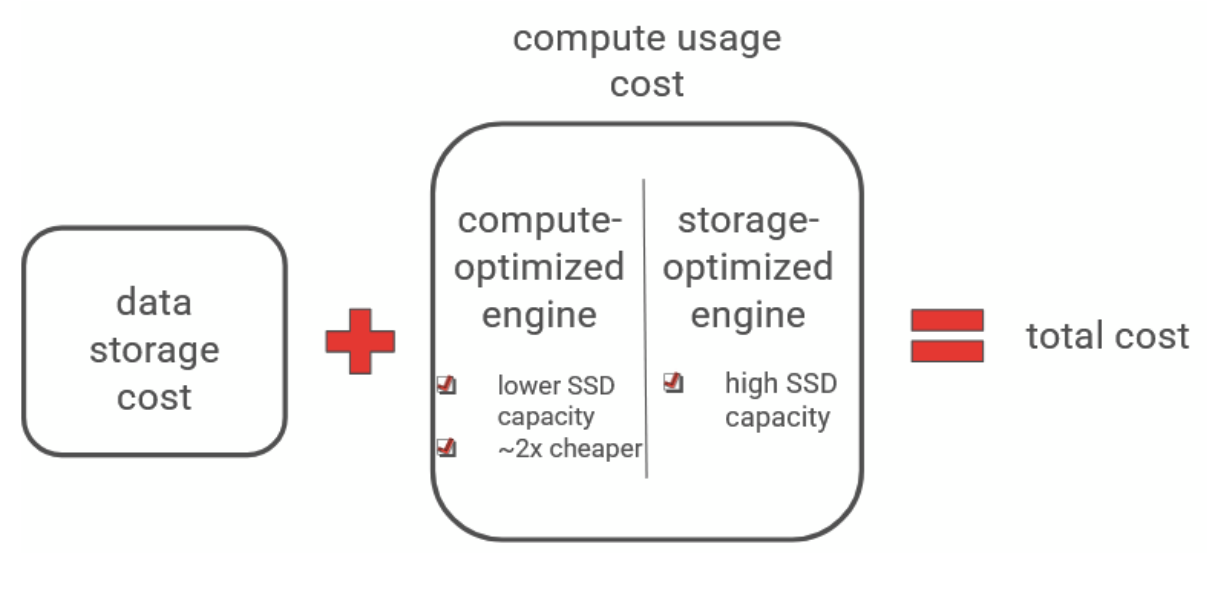
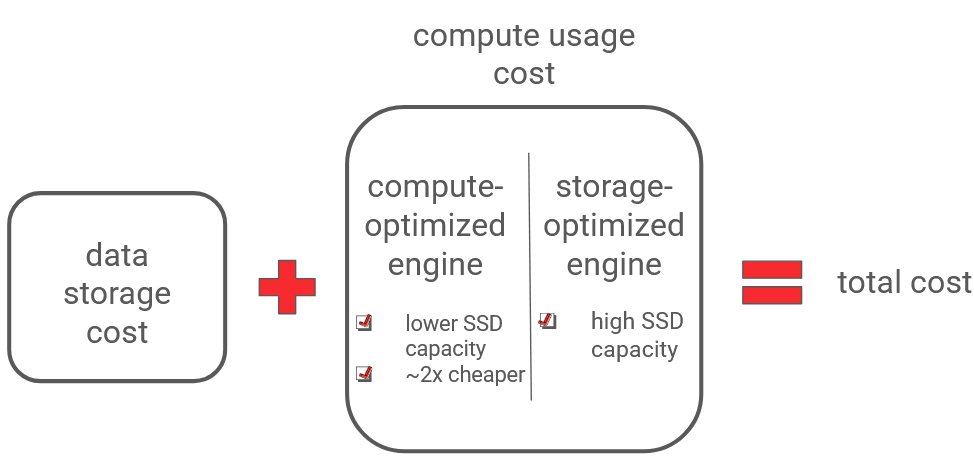
Nandi revisions

diff --git a/docs/Overview/billing.md b/docs/Overview/billing.md
@@ -26,9 +26,9 @@ The following sections outline the available deployment models, their editions, 
  Firebolt manages compute infrastructure, software maintenance, and upgrades across all fully-managed editions. Firebolt handles multi-dimensional elasticity, high performance, scaling, maintenance, and performance optimizations.
 
 * [Fully-managed editions](#fully-managed-editions) &ndash; Firebolt offers the **Standard**, **Enterprise** and **Dedicated** editions.
-* [Fully-managed pricing model](#fully-managed-pricing-models) &ndash; Your total price consists of a storage and a compute cost.
-    * [Data storage pricing](#fully-managed-data-storage-pricing) &ndash; The storage portion of your total cost.
-    * [Compute usage pricing](#fully-managed-compute-usage-pricing) &ndash; The compute portion of your total cost.
+* [Fully-managed pricing model](#fully-managed-pricing-model) &ndash; Your total price consists of a storage and a compute cost.
+    * [Data storage pricing](#data-storage-pricing) &ndash; The storage portion of your total cost.
+    * [Compute usage pricing](#compute-usage-pricing) &ndash; The compute portion of your total cost.
 * [Fully-managed pricing plans](#fully-managed-pricing-plans) &ndash; How to pay for resource usage.
     * [Billing setup and monitoring](#billing-setup-and-monitoring) &ndash; How to use the Billing dashboard to view resource consumption and set up billing and a plan.
     * [Set up billing for fully-managed plans](#set-up-billing-for-fully-managed-plans) &ndash; How to set up pay-as-you-go billing through AWS Marketplace.
@@ -71,12 +71,10 @@ Data storage costs are based on the amount of compressed data stored, including 
 #### Compute usage pricing
 Compute costs are measured in Firebolt Units (FBUs) and vary based on [engine]({% link Overview/engine-fundamentals.md %}) node type, number of nodes or cluster size, the number of clusters and usage duration. Costs are only billed for the time Firebolt engines are running. Firebolt offers two compute family options:
 
-The price of an FBU varies by Firebolt edition and region.
-
 * **Storage-optimized** (default): High SSD capacity for caching and production workloads.
 * **Compute-optimized**: About 2x cheaper; ideal for development and test environments or workloads with smaller active datasets.
 
-The following table outlines the available node types, their compute family, and the corresponding Firebolt Unit (FBU) sizing:
+The following table outlines the available node types, their compute family, and the corresponding FBU sizing:
 
 | Node type        | Compute family    | Sizing in FBU    |
 |------------------|-------------------|------------------|
@@ -89,6 +87,8 @@ The following table outlines the available node types, their compute family, and
 | Large (L)        | Compute-optimized | 16               |
 | Extra Large (XL) | Compute-optimized | 32               |
 
+Firebolt's compute usage pricing is based on **FBUs**, which vary by node type and region. The following table provides hourly pricing for **storage-optimized** node types across **Standard** and **Enterprise** plans, distinguishing between **US and Non-US regions**. Compute costs are only incurred while Firebolt engines are running, with **per-second billing**.
+
 **Storage-optimized pricing for compute usage**
 
 | Node Type         | Sizing in FBU | Standard: US Region Pricing ($0.23/FBU/hr) | Enterprise: US Region Pricing ($0.35/FBU/hr) | Standard: Non-US Region Pricing ($0.28/FBU/hr) | Enterprise: Non-US Region Pricing ($0.42/FBU/hr) |
@@ -97,6 +97,8 @@ The following table outlines the available node types, their compute family, and
 | **Medium (M)**   | 16           | $3.68                            | $5.60                            | $4.48                            | $6.72                            |
 | **Large (L)**    | 32           | $7.36                            | $11.20                           | $8.96                            | $13.44                           |
 | **Extra Large (XL)** | 64       | $14.72                           | $22.40                           | $17.92                           | $26.88                           |
+
+The following table provides hourly pricing for **compute-optimized** node types across **Standard** and **Enterprise** plans, distinguishing between **US and Non-US regions**. Compute costs are only incurred while Firebolt engines are running, with **per-second billing**.
 
 **Compute-optimized pricing for compute usage**
 
@@ -175,10 +177,11 @@ Response Time Commitments (TFR = Time to First Response)
 | Medium (Sev3) | Minor impact or feature issue               | Response within 24 business hours | Response within 6 business hours |
 | Low (Sev4)    | General inquiries or documentation questions | Response within 48 business hours | Response within 24 business hours |
 
-**Premium support features**            
-**Enterprise**, **Private Cloud**, and **Dedicated** edition customers receive additional support benefits beyond response time commitments:
-* **Proactive monitoring**: Alerts for issues and potential optimizations available to **Enterprise** edition customers
-* **Enhanced support channels**: All customers can access support via email and the in-app form, which can be accessed through the [help menu]({% link Reference/help-menu.md %}). Customers also have access to Slack support.
-* **Dedicated support engineer**: Customers are assigned a designated support engineer who has a deep understanding of their use and care for personalized support. **Standard** customers receive assistance from the general support pool. 
+**Premium support features**
+
+**Enterprise**, **Private Cloud**, and **Dedicated** edition customers receive the following additional support benefits beyond response time commitments:
+* **Proactive monitoring**: Alerts for issues and potential optimizations available to **Enterprise** edition customers.
+* **Enhanced support channels**: Support through Slack, email and the [help menu]({% link Reference/help-menu.md %}) in the **Firebolt Workspace**.
+* **Dedicated support engineer**: Customers are assigned a designated support engineer with deep knowledge of their environment, providing personalized support. This premium support level differs from **Standard** customers, who receive assistance from the general support pool. 
 
 Contact [support@firebolt.io](mailto:support@firebolt.io) to learn more about **Enterprise** edition Support offerings. 

diff --git a/docs/_includes/release_notes/release_notes_4_16.md b/docs/_includes/release_notes/release_notes_4_16.md
@@ -10,8 +10,8 @@ The [VACUUM]({% link sql_reference/commands/data-management/vacuum.md %}) statem
 **Introduced the `INDEXES = ALL | NONE` for the `VACUUM` statement**         
 The [VACUUM]({% link sql_reference/commands/data-management/vacuum.md %}) statement now supports the `INDEXES = ALL | NONE` option, giving users control over whether indexes are optimized during vacuum operations.
 
-**`VACUUM` now runs automatically**
-Firebolt now automatically evaluates the data layout of tables and runs the `VACUUM` command to optimize performance and storage efficiency. After [INSERT]({% link sql_reference/commands/data-management/insert.md %}), [UPDATE]({% link sql_reference/commands/data-management/update.md %}), or [DELETE]({% link sql_reference/commands/data-management/delete.md %}) operations modify data, the engine that performed the operation determines whether `VACUUM` is required based on factors such as the number of deleted rows and the need to consolidate storage for faster query performance and reduced disk space usage. 
+**`VACUUM` now runs automatically**<br>
+Firebolt now automatically evaluates the data layout of tables and runs [VACUUM]({% link sql_reference/commands/data-management/vacuum.md %}) to optimize performance and storage efficiency. After [INSERT]({% link sql_reference/commands/data-management/insert.md %}), [UPDATE]({% link sql_reference/commands/data-management/update.md %}), or [DELETE]({% link sql_reference/commands/data-management/delete.md %}) operations modify data, the engine that performed the operation determines whether `VACUUM` is required based on factors such as the number of deleted rows and the need to consolidate storage for faster query performance and reduced disk space usage. 
 
 <!-- Auto Generated Markdown for FIR-43695 - Owned by Tobias Humig -->
 **Added support for casting text literals to interval literals**         
@@ -56,6 +56,7 @@ Enterprise and Dedicated customers also get **24/7 support** with **faster suppo
 
 <!-- Auto Generated Markdown for FIR-38200 - Owned by Jonathan Doron -->  
 **Removed a planner rule that transform aggregations on a case statement**
+
 The planner rule that converted `AGG(CASE WHEN P THEN V ELSE NULL END)` into `AGGIF(V, P)` has been removed to simplify query processing.
 
 ### Performance Improvements

diff --git a/docs/Reference/release-notes/release-notes-archive.md b/docs/Reference/release-notes/release-notes-archive.md
@@ -19,6 +19,8 @@ We provide an archive of release notes for your historical reference.
 * Topic ToC
 {:toc}
 
+{% include release_notes/release_notes_4_15.md %}
+
 {% include release_notes/release_notes_4_14.md %}
 
 {% include release_notes/release_notes_4_13.md %}
